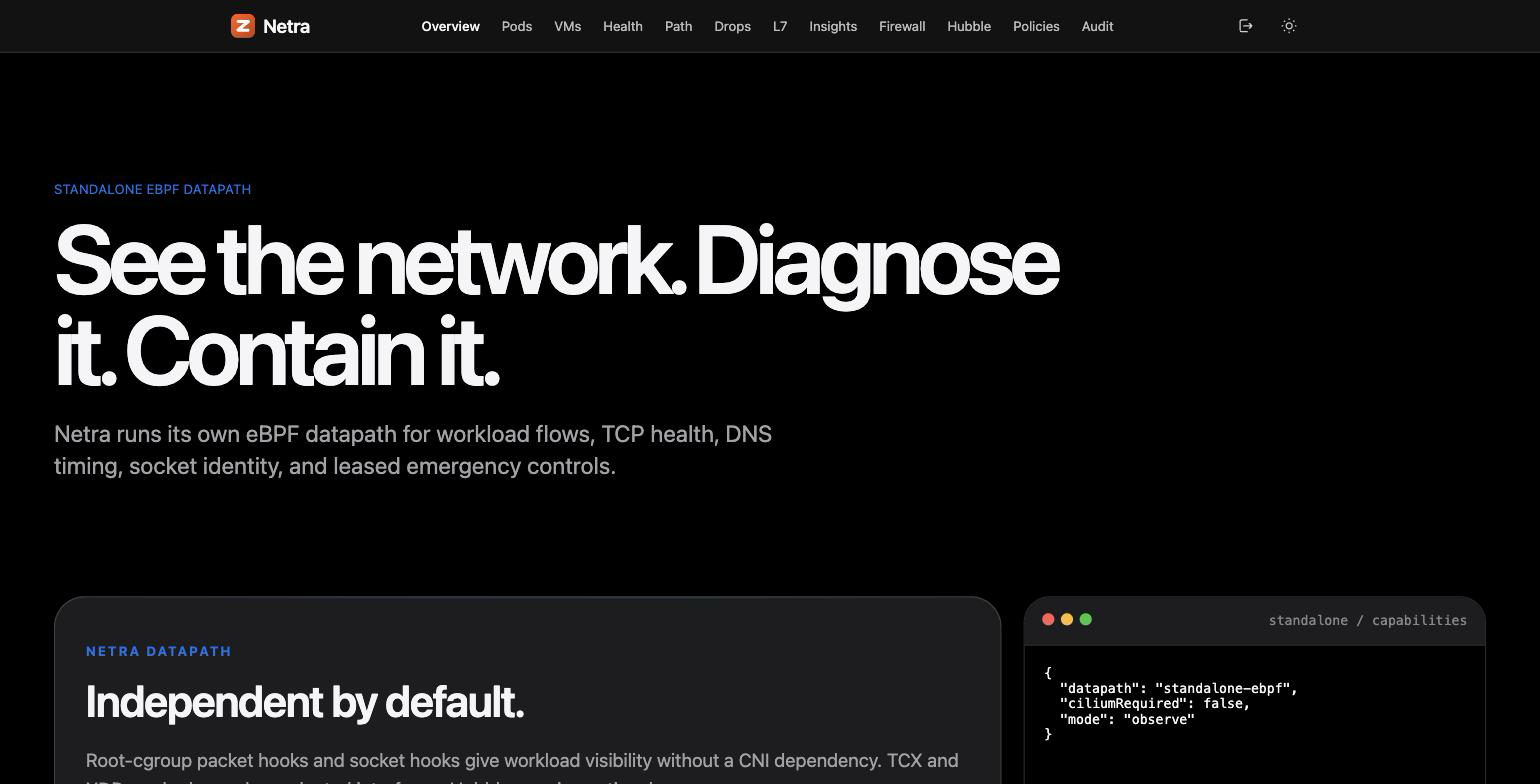
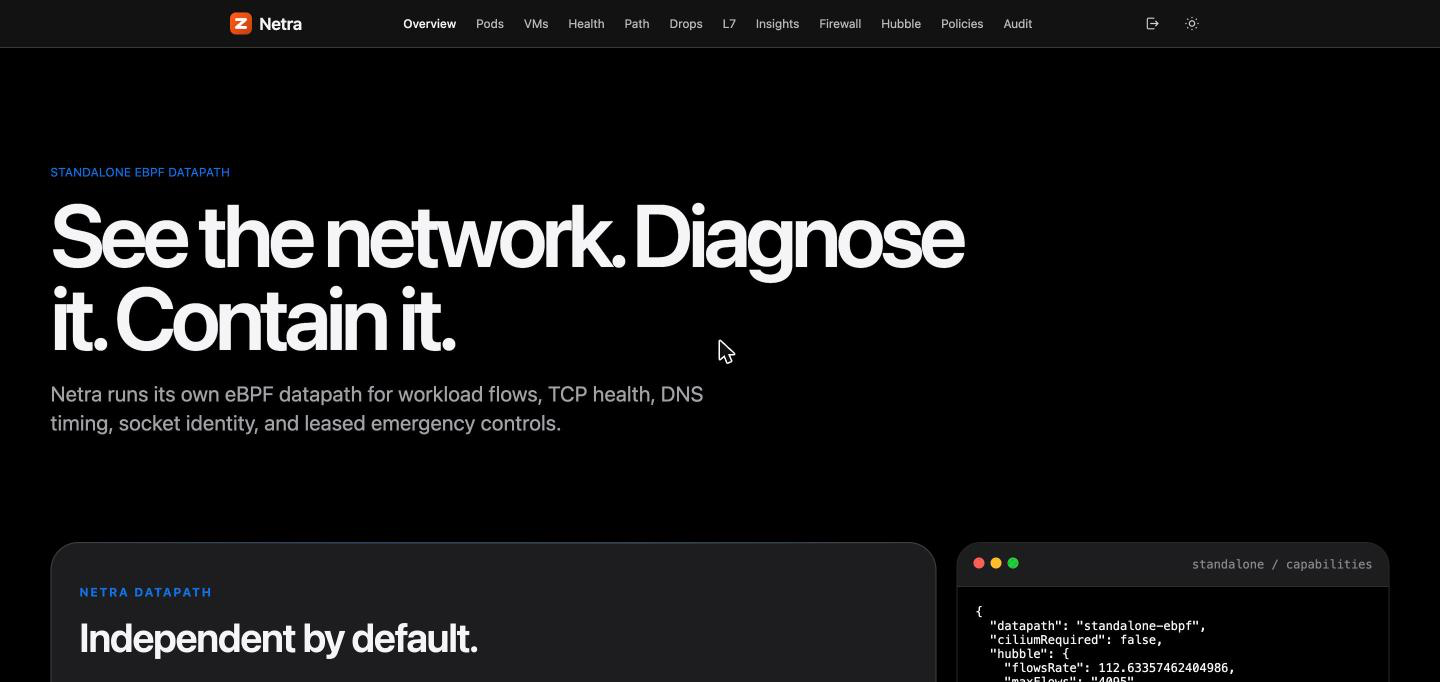
Add live demo GIF, refresh Overview screenshot from production
Replaced 00-overview.png with a capture from the live lab deployment
(212.8.248.187:30870) instead of local test data - real Hubble Relay
telemetry now visible in the standalone/capabilities panel.

Added docs/ux/netra-live-demo.gif: a walkthrough recorded against the
live deployment covering Overview, the Firewall page's unified rules
table and NetPol v2 allow-list card, and a real in-browser VNC console
session connected to a running KubeVirt VM (SeaBIOS boot output) - the
new workloadConsole feature, its RBAC fixed earlier this session.

Claude-Session: https://claude.ai/code/session_01S5QH34nrfYBsqBthiGnDUu

diff --git a/README.md b/README.md
@@ -38,6 +38,10 @@ Netra is observe-first. All custom enforcement is protected by a time-limited le
 
 ## Dashboard gallery
 
+Live walkthrough — Overview, the Firewall page's unified rules table and NetPol v2 allow-list, then a real in-browser VNC console connected to a running KubeVirt VM — captured against a live lab deployment, not a mockup:
+
+![Netra live demo — Overview, Firewall/NetPol v2, in-browser VNC console](docs/ux/netra-live-demo.gif)
+
 Live UI captures from a lab deployment (HTTPS `:30870`). Overview and Pods lockdown appear above and under Cilium integration; the rest of the console:
 
 ![Sign in](docs/ux/07-login.png)
